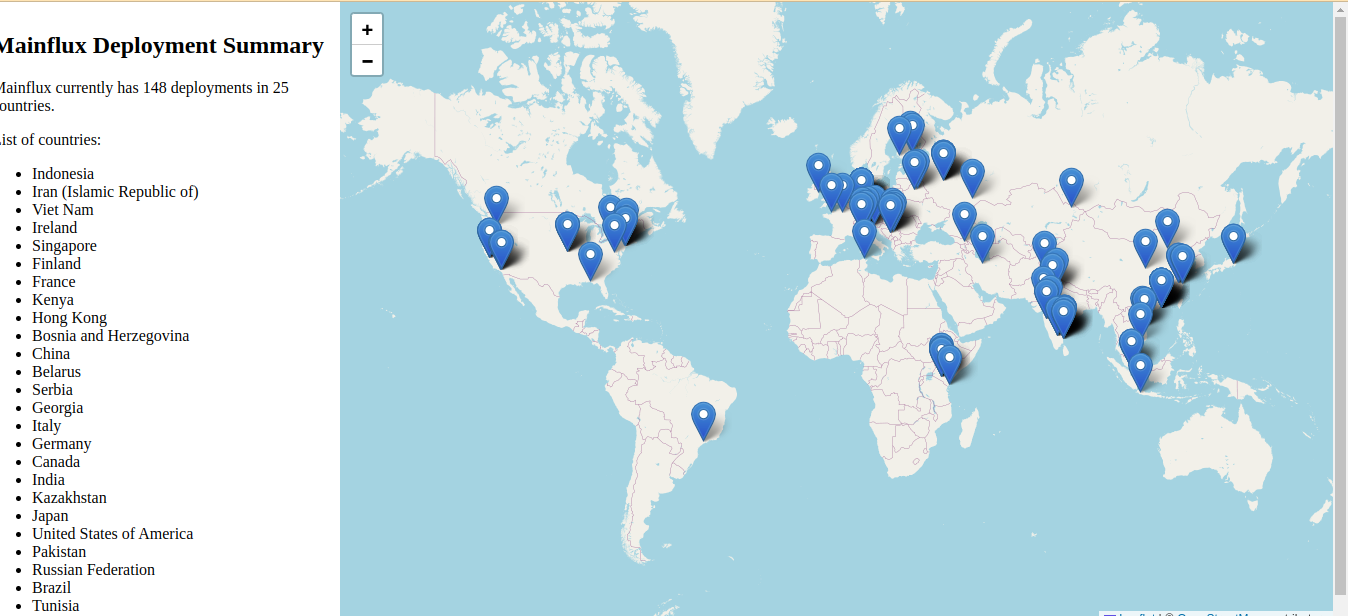
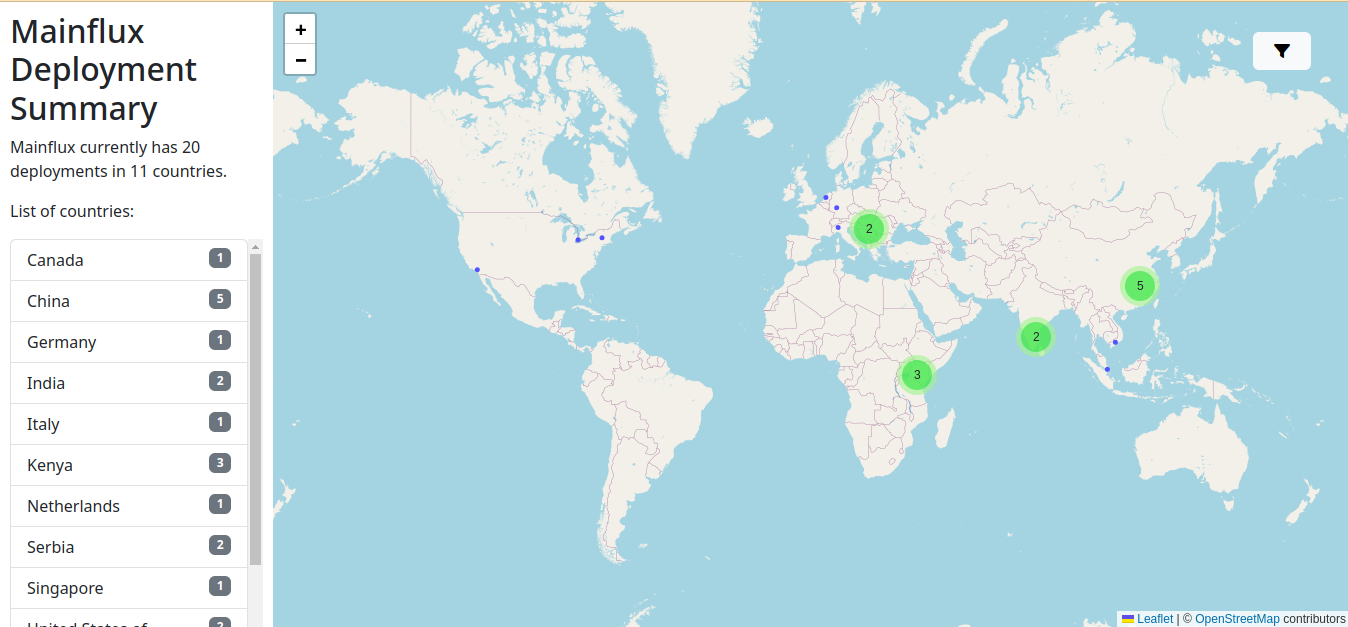
NOISSUE - Fix Default view Bug (#28)
* Fix default filter logic in ServeUI method

The default filter logic in the ServeUI method has been fixed to include all filters (city, country, service, and version) when checking if the "From" and "To" filters are zero. This ensures that the default filter is applied correctly when all other filters are empty.

This commit addresses the following issue:
- The default filter logic was not correctly considering all filters when determining if the "From" and "To" filters are zero.

* update web page image

---------

Changed region(s): [[0.0, 0.0, 1.0, 1.0], [0.6231, 0.0, 0.6855, 0.0308], [0.4674, 0.9562, 0.4985, 1.0]]

diff --git a/service.go b/service.go
@@ -65,7 +65,7 @@ func (ts *telemetryService) RetrieveSummary(ctx context.Context, filters Telemet
 func (ts *telemetryService) ServeUI(ctx context.Context, filters TelemetryFilters) ([]byte, error) {
 	tmpl := template.Must(template.ParseFiles("./web/template/index.html"))
 
-	if filters.From.IsZero() && filters.To.IsZero() {
+	if filters.From.IsZero() && filters.To.IsZero() && filters.City == "" && filters.Country == "" && filters.Service == "" && filters.Version == "" {
 		filters.From = time.Now().Add(-time.Hour)
 	}
 
